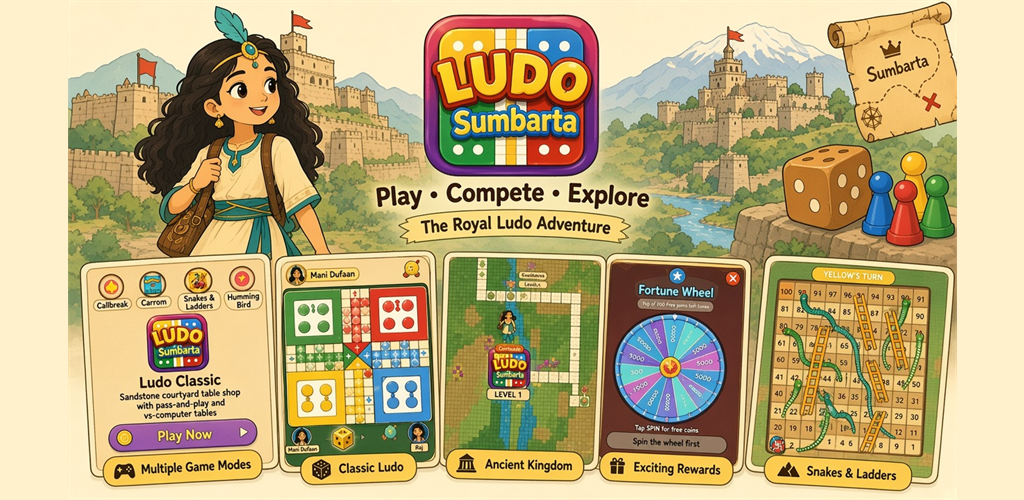
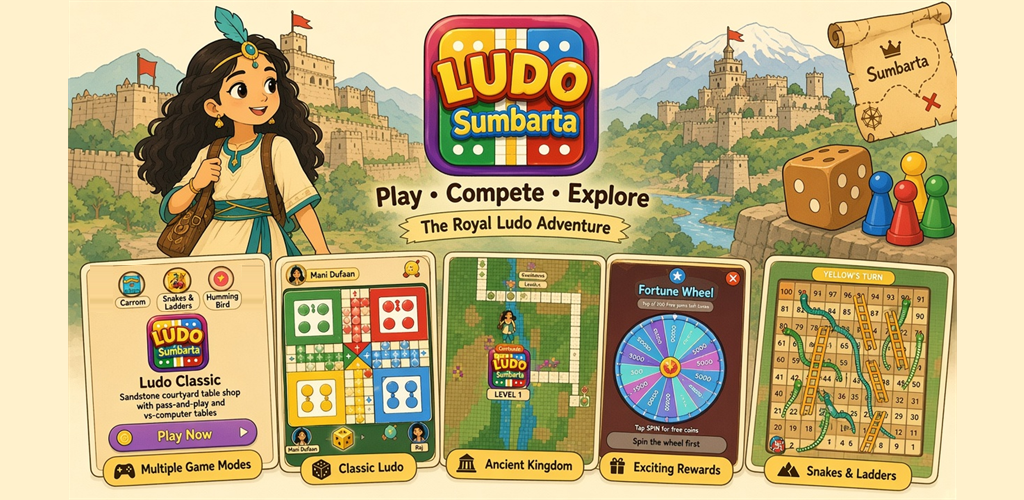
update

Changed region(s): [[0.0938, 0.51, 0.2812, 0.63]]

diff --git a/index.html b/index.html
@@ -1006,8 +1006,8 @@
         </figure>
         <p class="look-note">Screens from the Android app · swipe on a phone, tap any screen to open it</p>
         <div class="shots">
-          <button class="shot" type="button" data-shot="assets/Screenshot_20261025_183602_Ludo Sumbarta.jpg" data-alt="Fort Sumbarta courtyard with Ludo Classic and shortcuts to Callbreak, Carrom, Snakes and Ladders, and Humming Bird" data-caption="Fort courtyard — Ludo Classic, plus Callbreak, Carrom, Snakes &amp; Ladders, and Humming Bird.">
-            <span class="phone-bezel"><img src="assets/Screenshot_20261025_183602_Ludo Sumbarta.jpg" width="360" height="780" alt="" loading="lazy"></span>
+          <button class="shot" type="button" data-shot="assets/Screenshot_20261031_144301_Ludo Sumbarta.jpg" data-alt="Fort Sumbarta courtyard with Ludo Classic and shortcuts to Callbreak, Carrom, Snakes and Ladders, and Humming Bird" data-caption="Fort courtyard — Ludo Classic, plus Callbreak, Carrom, Snakes &amp; Ladders, and Humming Bird.">
+            <span class="phone-bezel"><img src="assets/Screenshot_20261031_144301_Ludo Sumbarta.jpg" width="360" height="780" alt="" loading="lazy"></span>
             <span><strong>Fort courtyard</strong><em>Ludo Classic, and the other halls</em></span>
           </button>
           <button class="shot" type="button" data-shot="assets/Screenshot_20261025_183609_Ludo Sumbarta.jpg" data-alt="Ancient Sumbarta map with Mani Dufaan on a river road between level markers" data-caption="Ancient Sumbarta — the kingdom map along the river, level by level.">
